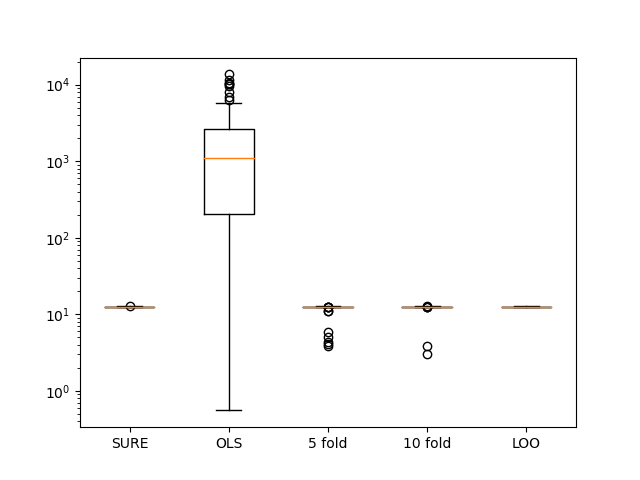
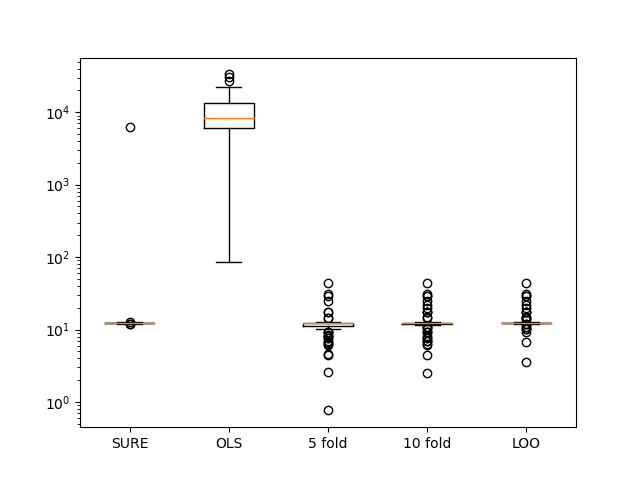
updated figures

diff --git a/code/test_almost_collinear.py b/code/test_almost_collinear.py
@@ -18,13 +18,15 @@ np.random.seed(1)
 sigma = 1.
 n = 100
 d = 5
-X = np.random.normal(loc=[-5., -6., 3., 2.], scale=[1., 1., 1., 1.],  size=(n, d-1))
+X = np.random.normal(loc=[-5., 0., 3.], scale=[1., 1., 1.],  size=(n, d-2))
 X_collinear = -5 * X[:,1] + np.random.normal(scale = 0.01, size=n)
+X = np.hstack((X, X_collinear.reshape(n, 1)))
+X_collinear = 1 * X[:,2] + np.random.normal(scale = 0.01, size=n)
 X = np.hstack((X, X_collinear.reshape(n, 1)))
 scaler = StandardScaler()
 scaler.fit(X)
 X = scaler.transform(X)
-beta = np.array([0., 3., -1., 0., 2.]).reshape(d, 1)
+beta = np.array([0., 3., -1., 1., 2.]).reshape(d, 1)
 y = (X @ beta).ravel() + np.random.normal(scale = sigma, size=n)
 
 test_errors = np.zeros((100,5))
@@ -109,7 +111,7 @@ for i in np.arange(100):
     lambdas[i,:] = ([l, 0., l_5fold, l_10fold, l_loocv])
     mses[i,:] = ([mse_sr, mse, mse_5fold, mse_10fold, mse_loocv])
     test_errors[i,:] = np.array([test_error_SURE, test_error, test_error_5fold, test_error_10fold, test_error_loocv])
-    # print("-----")
+    print("-----")
 
 path = os.path.normpath(os.path.join(os.path.dirname( __file__ ), "..", "data", "collinear"))
 fi = open(path, 'wb')
